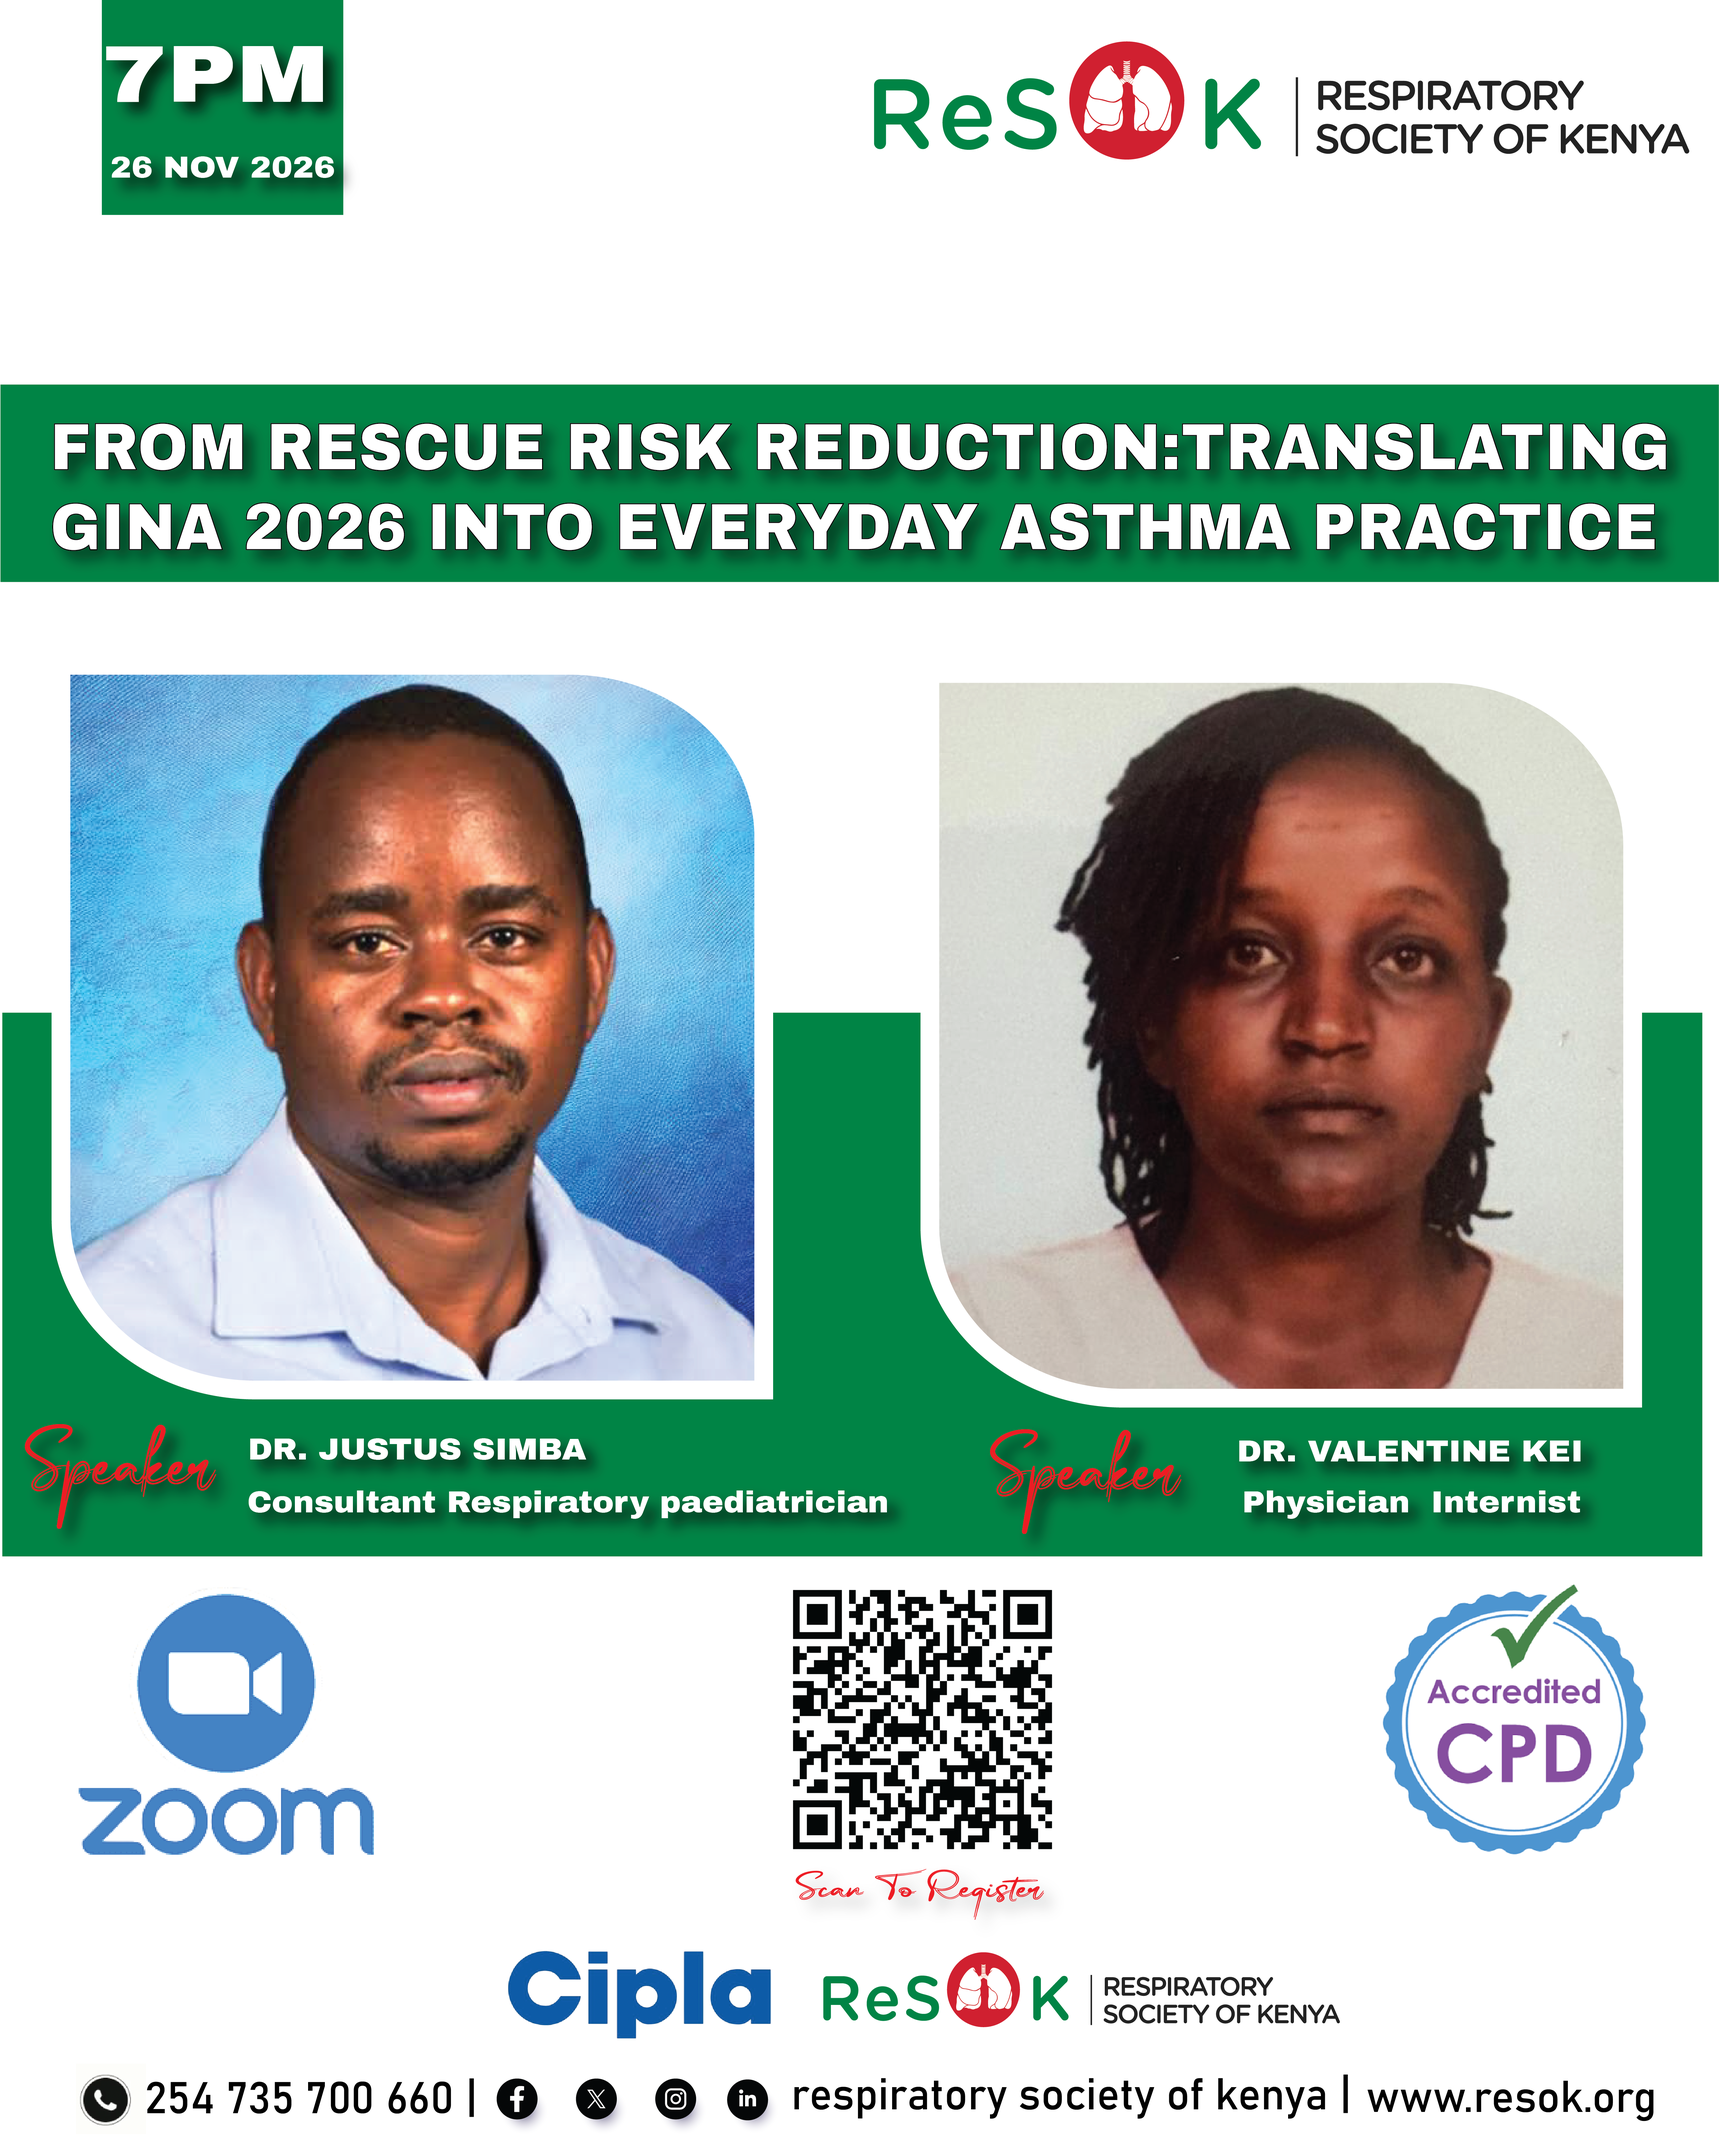
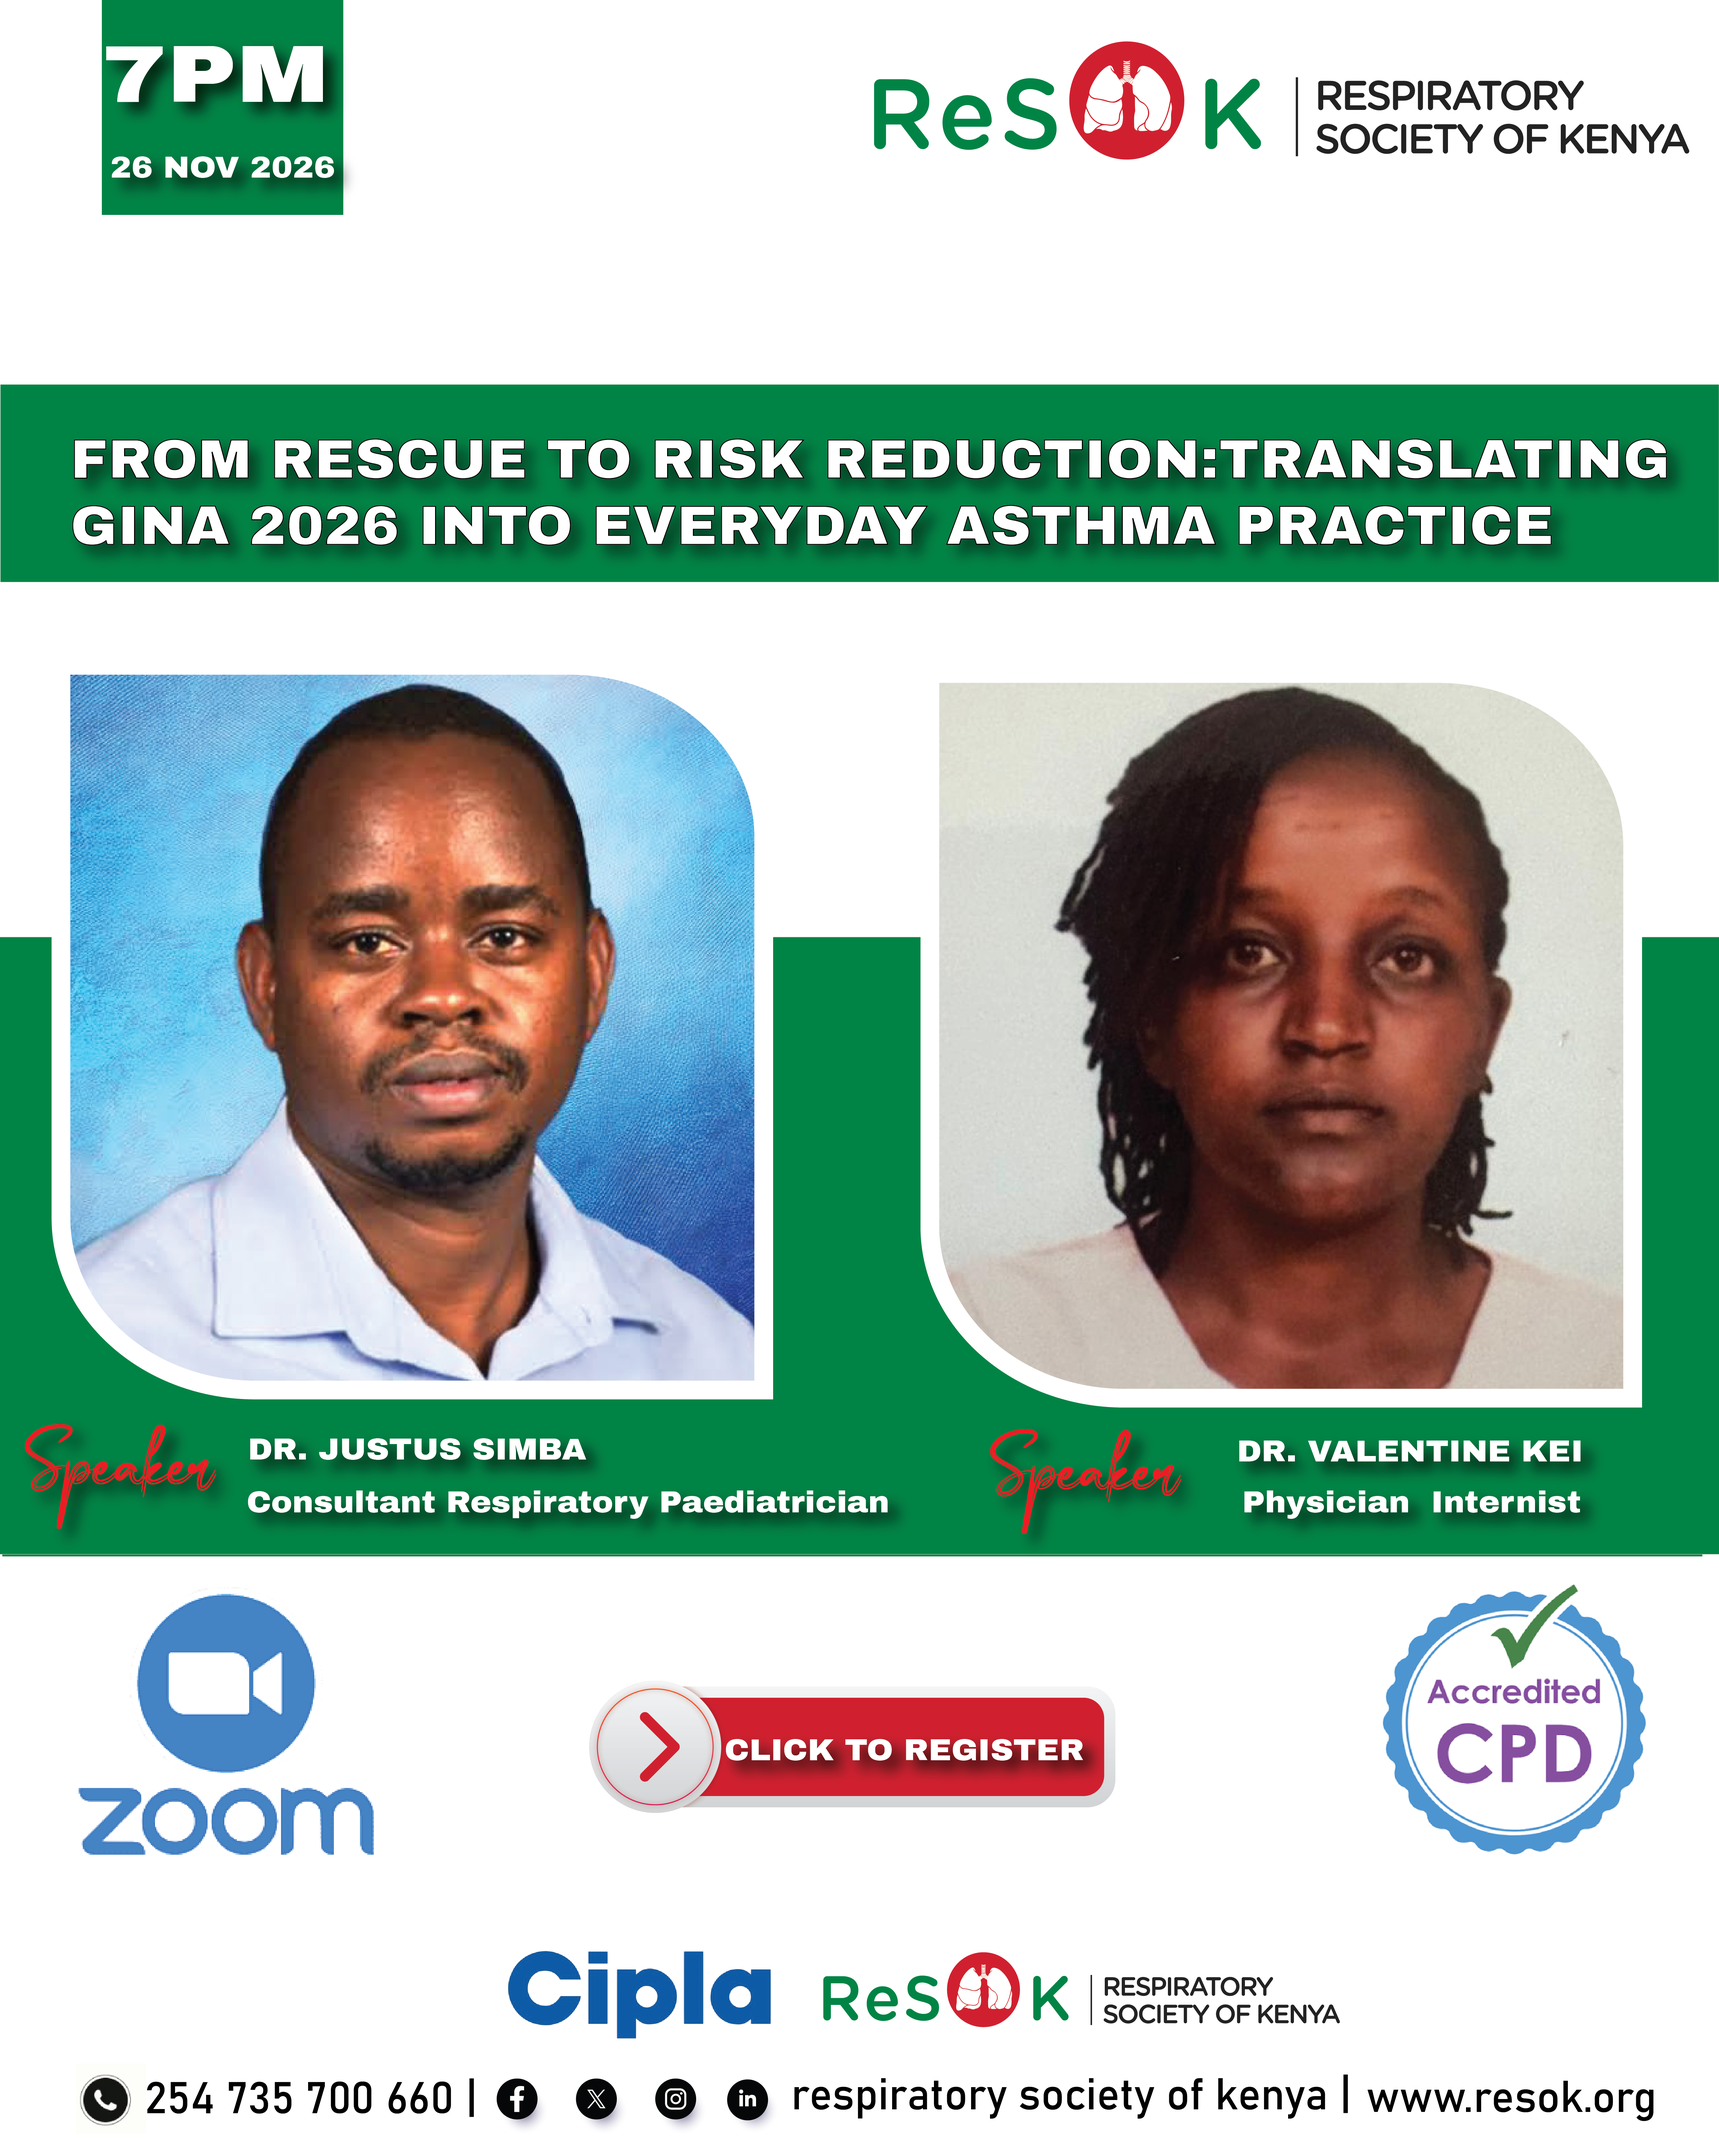
Replace GINA webinar poster with updated artwork

diff --git a/events.html b/events.html
@@ -361,8 +361,8 @@
         <!-- Website-only announcement: no portal event, registration or token records. -->
         <div class="ev-website-listings" id="websiteEvents">
           <article class="ev-card is-featured ev-webinar" id="gina-2026-asthma-practice" aria-labelledby="gina-webinar-title">
-            <a class="ev-poster" href="assets/img/events/2026-11-26-gina-asthma-practice/poster.png" target="_blank" rel="noopener" aria-label="Open the full webinar poster (opens in a new tab)">
-              <img src="assets/img/events/2026-11-26-gina-asthma-practice/poster.png" width="5334" height="6667" loading="lazy" decoding="async" alt="Webinar poster: Translating GINA 2026 into everyday asthma practice, 26 November 2026 at 7 pm, with Dr. Justus Simba and Dr. Valentine Kei">
+            <a class="ev-poster" href="assets/img/events/2026-11-26-gina-asthma-practice/poster.png?v=20261120-2" target="_blank" rel="noopener" aria-label="Open the full webinar poster (opens in a new tab)">
+              <img src="assets/img/events/2026-11-26-gina-asthma-practice/poster.png?v=20261120-2" width="5334" height="6667" loading="lazy" decoding="async" alt="Webinar poster: Translating GINA 2026 into everyday asthma practice, 26 November 2026 at 7 pm, with Dr. Justus Simba and Dr. Valentine Kei">
             </a>
             <div class="ev-main">
               <div class="ev-card-top">
